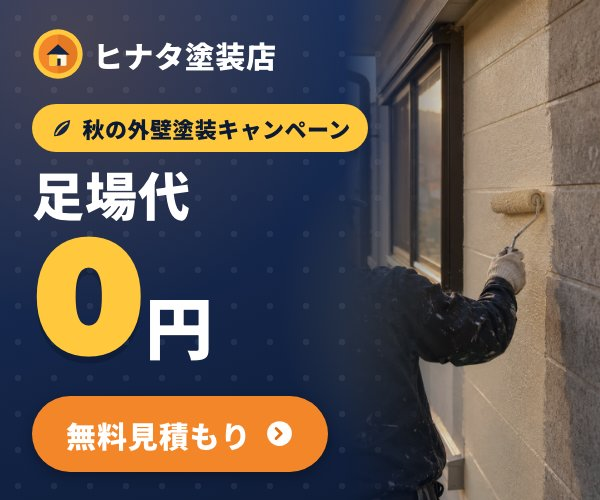
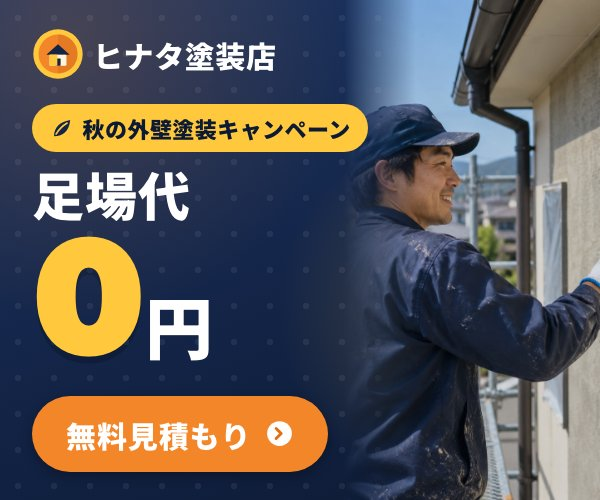
portfolio: 職人写真を差し替え（顔が見える斜め横顔・明るい日中・爽やかな笑顔＝ユーザー要望）・切り出し位置を顔側に調整
Claude-Session: https://claude.ai/code/session_015wPTjpHWekuwDgrWLqxUDV

diff --git a/site/src/ad/banner.html b/site/src/ad/banner.html
@@ -86,8 +86,8 @@ html,body{background:#222;font-family:"Noto Sans JP",system-ui,sans-serif;color:
 .size-square .house{right:-50px;bottom:44px;width:620px}
 .size-square .leaves{display:block;right:150px;top:190px;width:300px}
 .size-square .sample{right:72px;top:158px;font-size:18px}
-.size-square .photo{left:440px;top:300px;right:0;bottom:0;mask-image:linear-gradient(90deg,transparent 0,#000 36%),linear-gradient(180deg,transparent 0,#000 32%);mask-composite:intersect;-webkit-mask-image:linear-gradient(90deg,transparent 0,#000 36%),linear-gradient(180deg,transparent 0,#000 32%);-webkit-mask-composite:source-in}
-.size-square .photo img{object-position:72% 40%}
+.size-square .photo{left:440px;top:300px;right:0;bottom:0;mask-image:linear-gradient(90deg,transparent 0,#000 18%),linear-gradient(180deg,transparent 0,#000 32%);mask-composite:intersect;-webkit-mask-image:linear-gradient(90deg,transparent 0,#000 18%),linear-gradient(180deg,transparent 0,#000 32%);-webkit-mask-composite:source-in}
+.size-square .photo img{object-position:36% 42%}
 .size-square .photo img.ph-house{object-position:60% 50%}
 .size-square.photo-house .photo{mask-image:linear-gradient(90deg,transparent 0,#000 46%),linear-gradient(180deg,transparent 0,#000 44%);-webkit-mask-image:linear-gradient(90deg,transparent 0,#000 46%),linear-gradient(180deg,transparent 0,#000 44%)}
 
@@ -115,7 +115,7 @@ html,body{background:#222;font-family:"Noto Sans JP",system-ui,sans-serif;color:
 .size-story .leaves{display:block;right:110px;top:420px;width:360px}
 .size-story .house{right:-40px;bottom:-10px;width:700px}
 .size-story .sample{right:80px;top:322px;font-size:20px}
-.size-story .photo{left:0;right:0;top:940px;bottom:-500px;mask-image:linear-gradient(180deg,transparent 0,rgba(0,0,0,.35) 22%,#000 40%);-webkit-mask-image:linear-gradient(180deg,transparent 0,rgba(0,0,0,.35) 22%,#000 40%)}
+.size-story .photo{left:0;right:0;top:1040px;bottom:-600px;mask-image:linear-gradient(180deg,transparent 0,rgba(0,0,0,.35) 22%,#000 40%);-webkit-mask-image:linear-gradient(180deg,transparent 0,rgba(0,0,0,.35) 22%,#000 40%)}
 .size-story .photo img{object-position:50% 62%}
 .size-story .band{display:block;left:0;right:0;top:1280px;height:224px}
 
@@ -142,8 +142,8 @@ html,body{background:#222;font-family:"Noto Sans JP",system-ui,sans-serif;color:
 .size-landscape .note{display:none}
 .size-landscape .house{right:8px;bottom:-4px;width:560px}
 .size-landscape .sample{left:56px;top:592px;font-size:15px}
-.size-landscape .photo{left:640px;top:0;right:0;bottom:0;mask-image:linear-gradient(90deg,transparent 0,#000 42%);-webkit-mask-image:linear-gradient(90deg,transparent 0,#000 42%)}
-.size-landscape .photo img{object-position:66% 45%}
+.size-landscape .photo{left:640px;top:0;right:0;bottom:0;mask-image:linear-gradient(90deg,transparent 0,#000 30%);-webkit-mask-image:linear-gradient(90deg,transparent 0,#000 30%)}
+.size-landscape .photo img{object-position:34% 45%}
 
 /* ---------- RECT 300x250 (rendered at scale 2 → 600x500) ---------- */
 .size-rect .ad{width:300px;height:250px}
@@ -165,8 +165,8 @@ html,body{background:#222;font-family:"Noto Sans JP",system-ui,sans-serif;color:
 .size-rect .cta .arr{width:.9em;height:.9em}
 .size-rect .house{right:-12px;bottom:-2px;width:158px}
 .size-rect .sample{display:none}
-.size-rect .photo{left:172px;top:0;right:0;bottom:0;mask-image:linear-gradient(90deg,transparent 0,#000 40%);-webkit-mask-image:linear-gradient(90deg,transparent 0,#000 40%)}
-.size-rect .photo img{object-position:80% 45%}
+.size-rect .photo{left:172px;top:0;right:0;bottom:0;mask-image:linear-gradient(90deg,transparent 0,#000 28%);-webkit-mask-image:linear-gradient(90deg,transparent 0,#000 28%)}
+.size-rect .photo img{object-position:30% 45%}
 
 /* variant B tweaks (3-char unit needs a tighter number) */
 .size-square.v-b .head .num{font-size:290px}
